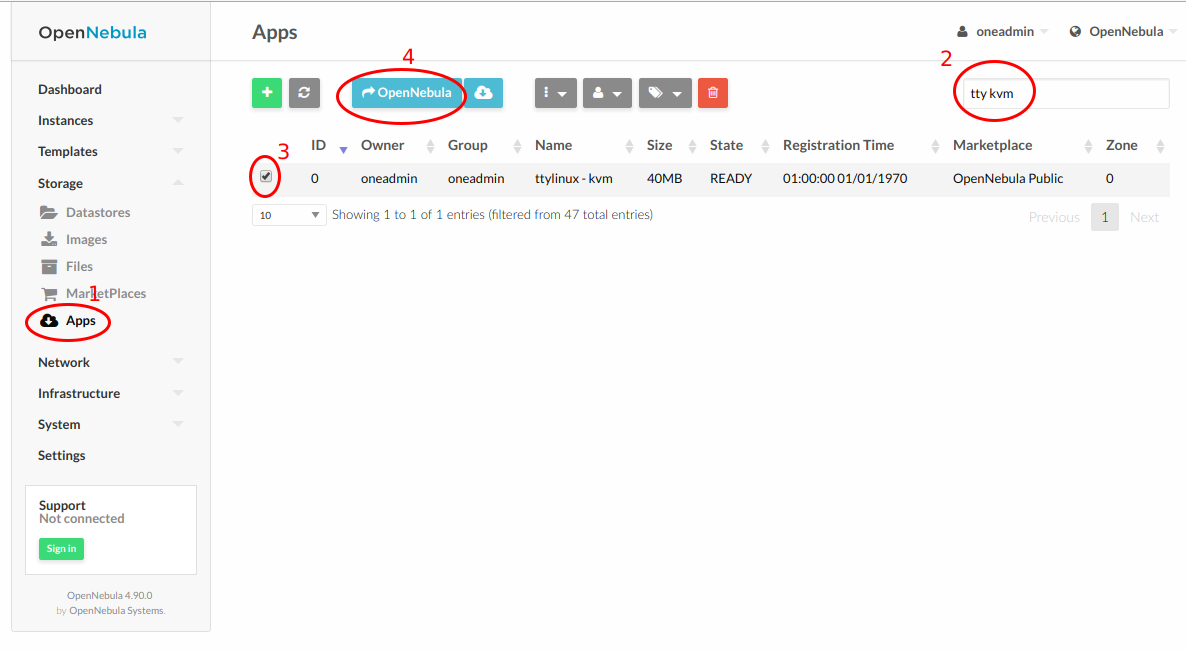
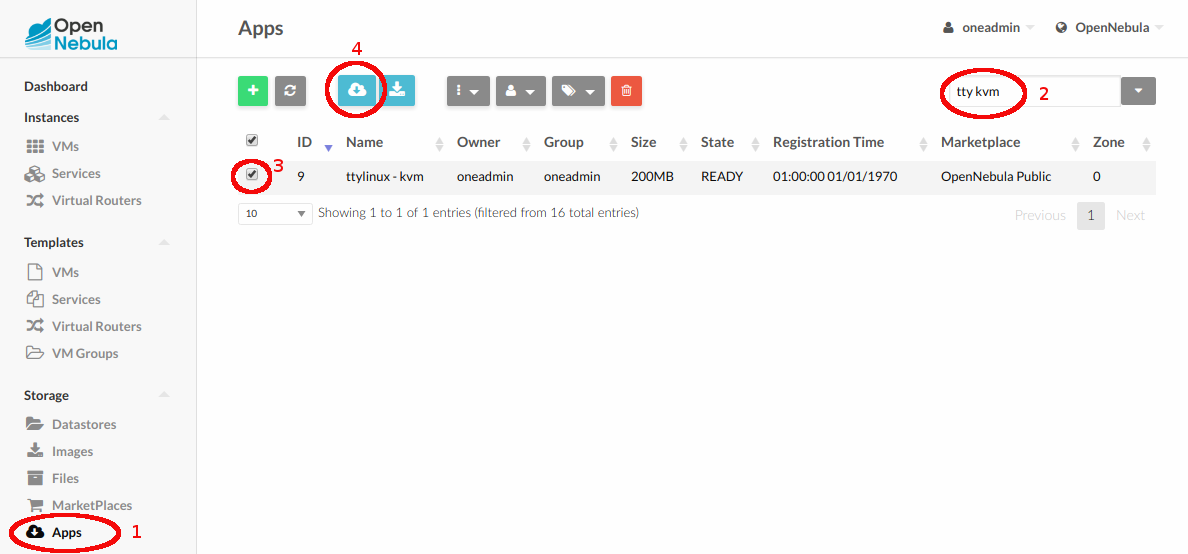
Changed import app image

diff --git a/source/deployment/node_installation/verify.rst b/source/deployment/node_installation/verify.rst
@@ -28,7 +28,7 @@ The Hosts that you have registered should be in ON status.
 Step 2. Import an appliance from the MarketPlace.
 --------------------------------------------------------------------------------
 
-We need to add an Image to our Cloud. To do so we can do so by navigating to Storage -> Apps in the left side menu (1). You will see a list of Appliances, you can filter by ``tty kvm`` (2) in order to find the one we are going to use in this guide. After that select it (3) and click to button with an arrow pointing to OpenNebula (4) in order to import it.
+We need to add an Image to our Cloud. To do so we can do so by navigating to Storage -> Apps in the left side menu (1). You will see a list of Appliances, you can filter by ``tty kvm`` (2) in order to find the one we are going to use in this guide. After that select it (3) and click to cloud button (4) in order to import it.
 
 |sunstone_import_marketapp|
 
